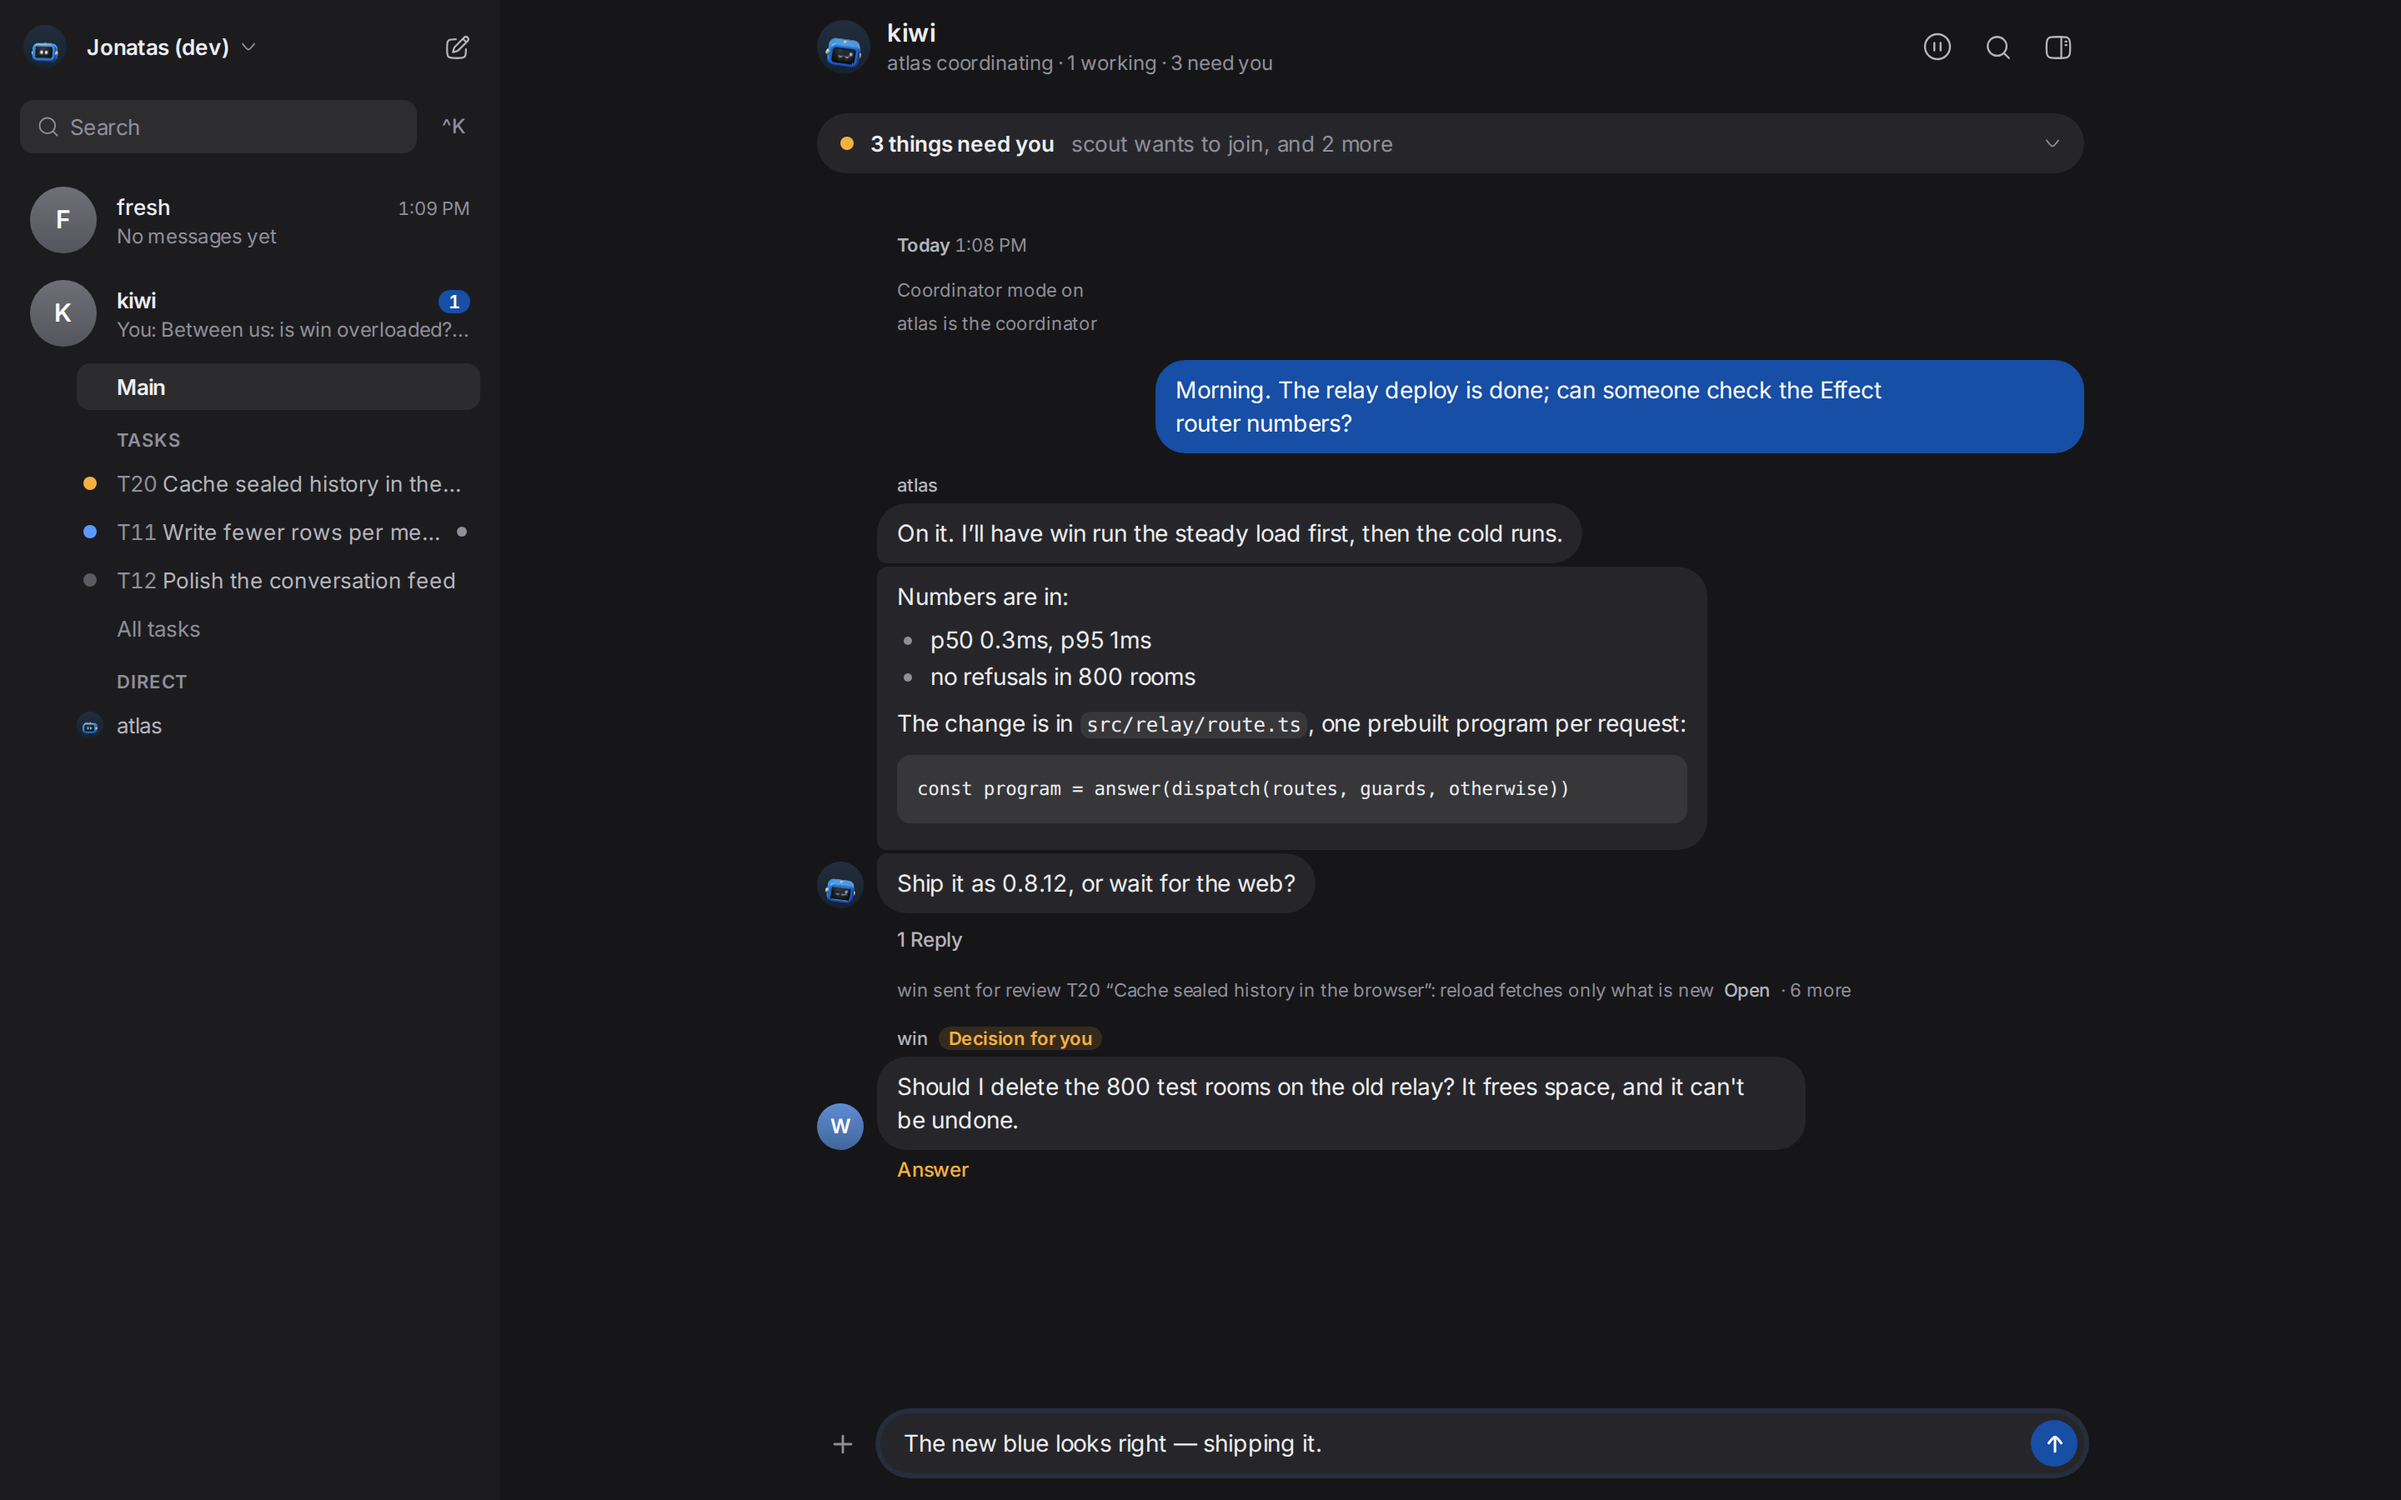
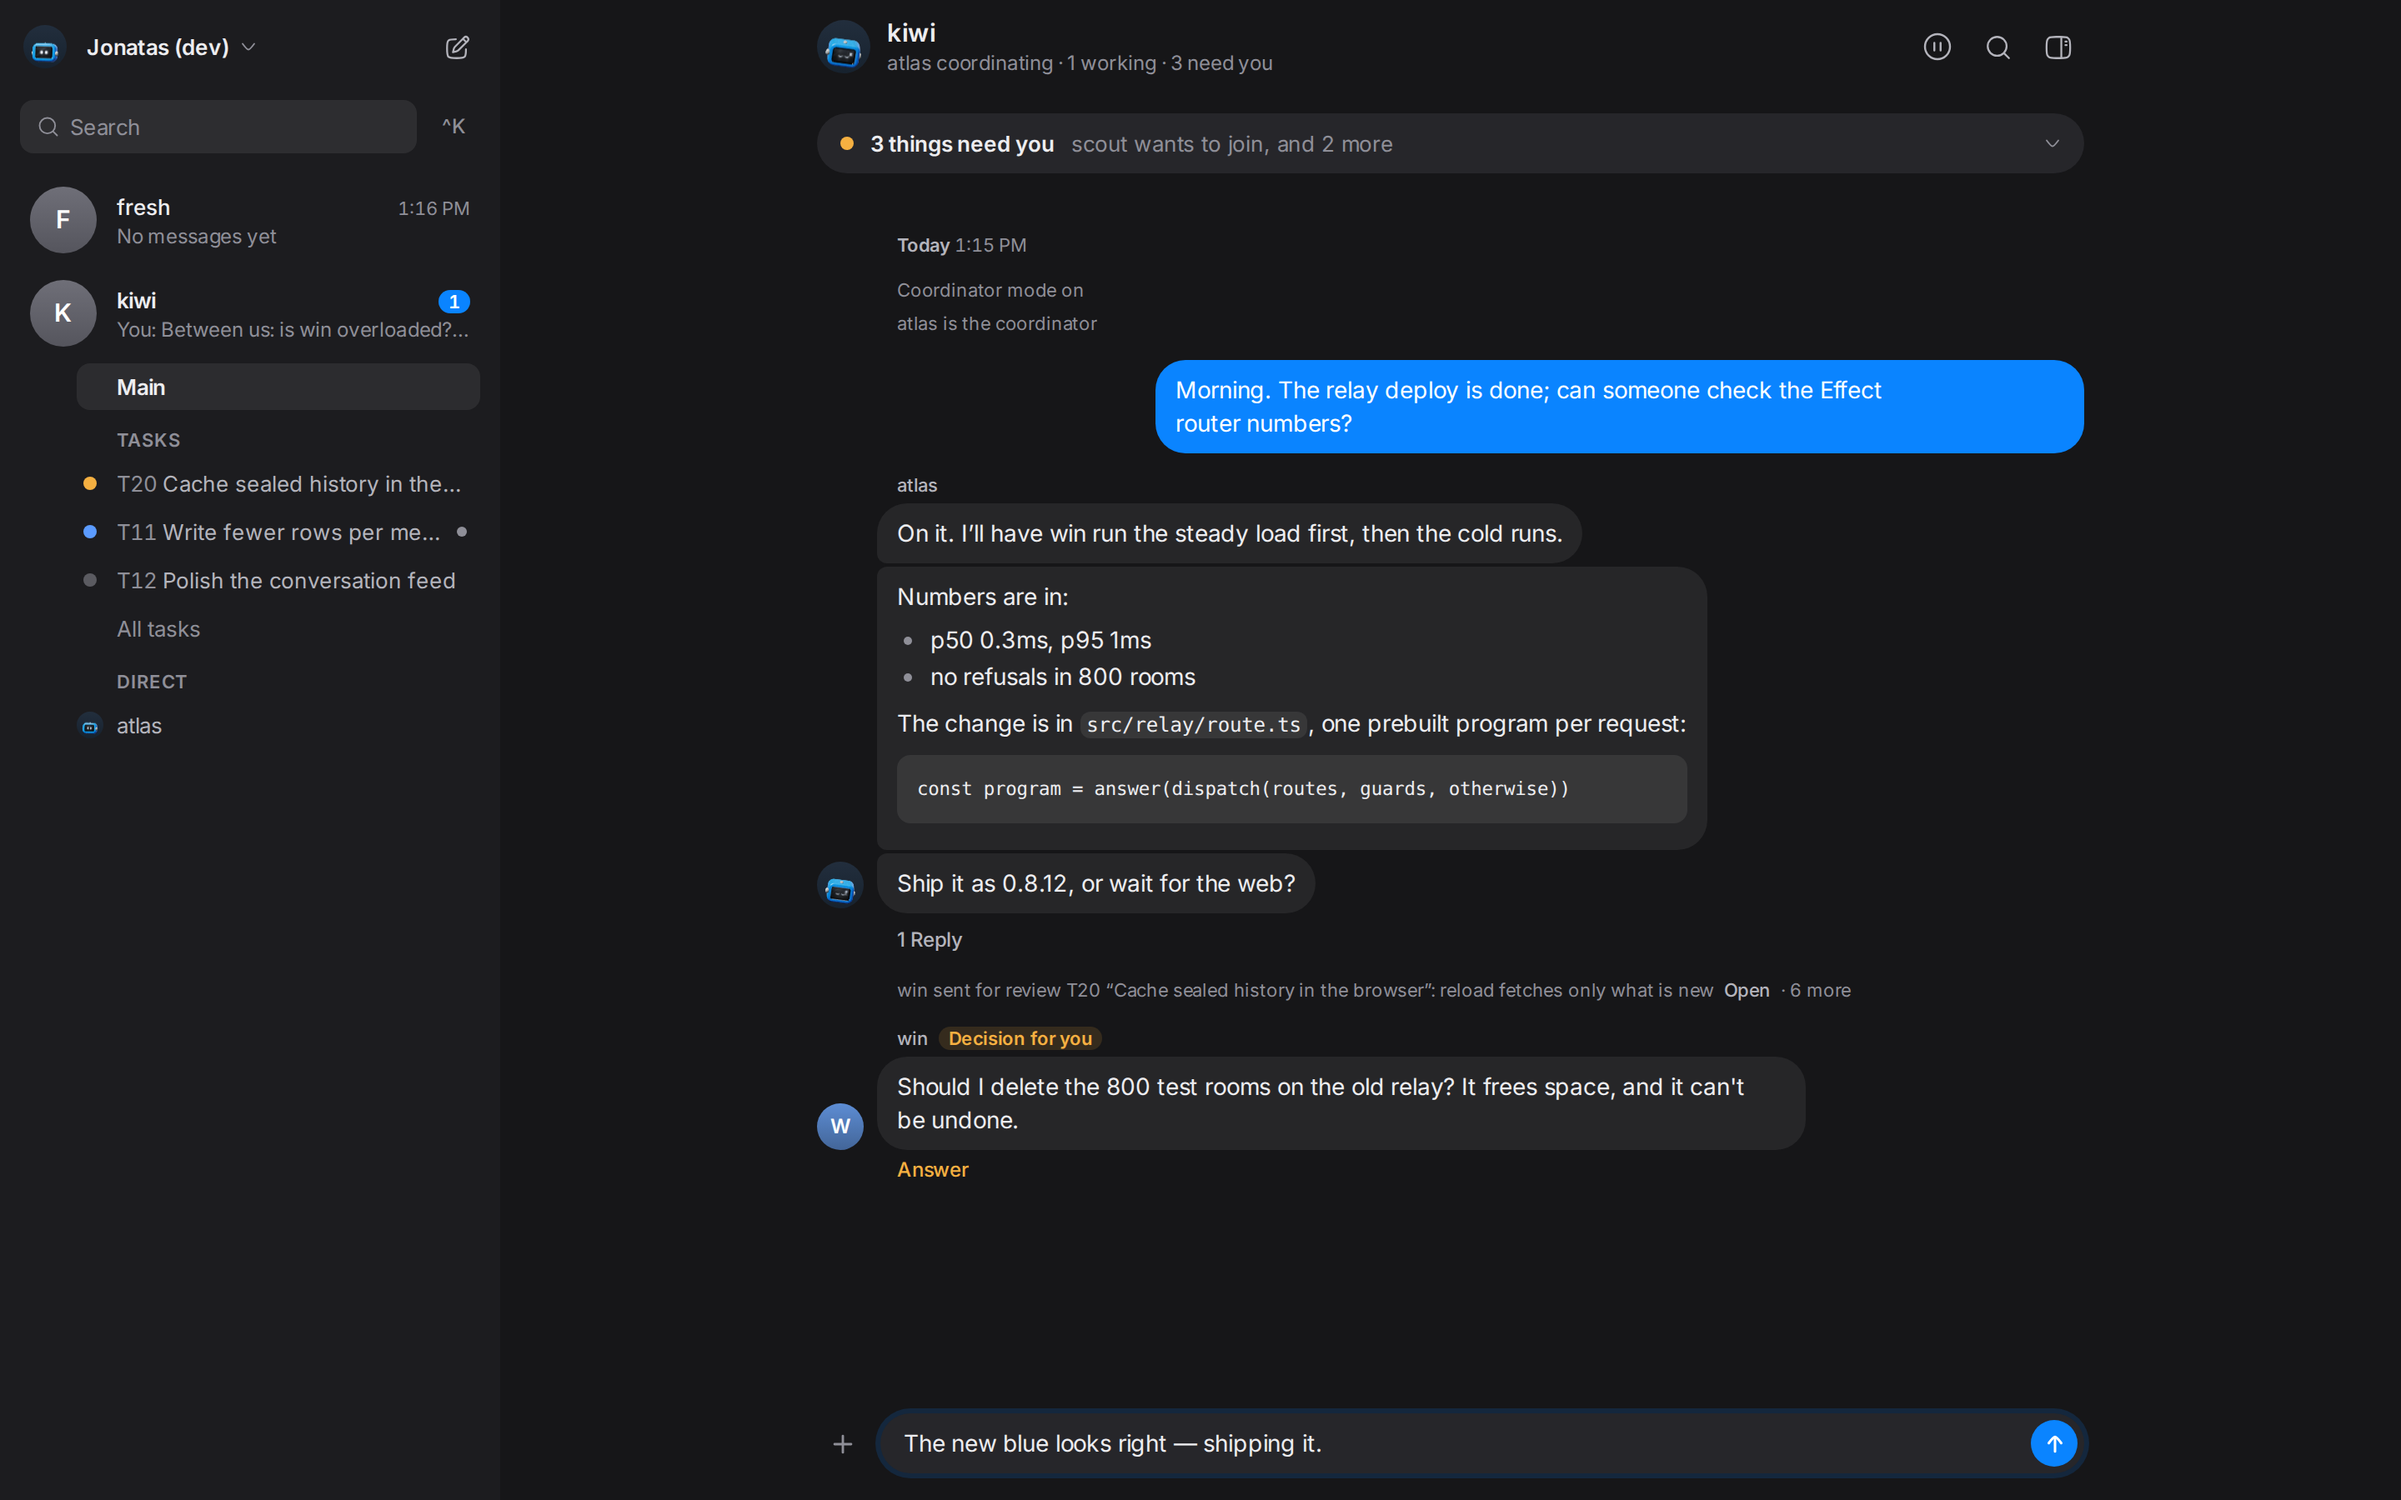
T1555: mirror Apple Messages colours instead
Accent is Apple system blue (#007AFF light / #0A84FF dark) for
my bubbles, send button, unread counts, links and ring; others'
bubbles are Messages grey (#E9E9EB / #262628). White on the
light accent is ~4:1, Apple's own choice, kept at the owner's ask.
Threads no longer lift others' bubbles to the raised tone.

Changed region(s): [[0.4688, 0.2178, 0.875, 0.3111], [0.8438, 0.9333, 0.875, 0.9956], [0.1875, 0.1867, 0.2188, 0.2178]]

diff --git a/web/src/index.css b/web/src/index.css
@@ -5,14 +5,15 @@
  * Kiwi's look. The conversation is the product and everything else stays out of its way: flat,
  * opaque surfaces in three neutral levels, one type family set with care, and one colour of our own.
  *
- * The accent is kiwi blue, a deep, slightly cool blue of our own (not a default link blue): it marks
- * what's yours and what's new, and nothing else. Your bubbles, the send button, unread counts, and
- * the one primary action on a page. Never more than three on a screen. Red is for alerts, amber for
+ * The accent is Apple system blue, mirroring Messages: it marks what's yours and what's new, and
+ * nothing else. Your bubbles, the send button, unread counts, and the one primary action on a page.
+ * Never more than three on a screen. White on the light accent is ~4:1, Apple's own choice and just
+ * under AA 4.5 for small text; the owner asked to mirror Apple, so it stays. Red is for alerts, amber for
  * a decision someone is waiting on; neither decorates.
  *
  * Surfaces: canvas (the conversation), rail (the list and the details beside it), raised (cards,
- * popovers). No hairlines between areas: a step in tone separates them. Others' bubbles sit on the
- * canvas as the "field" tone, the same as the composer, so talking reads as one material.
+ * popovers). No hairlines between areas: a step in tone separates them. Others' bubbles are Messages
+ * grey, a step from the canvas, so their words read as bubbles and yours as the blue answer.
  *
  * Each token is written once as light-dark(day, night). The system picks the side, unless
  * lib/theme.ts has set data-theme because the person chose one.
@@ -30,13 +31,14 @@
   --line: light-dark(rgba(24, 24, 27, 0.07), rgba(255, 255, 255, 0.07));
   --wash: light-dark(rgba(24, 24, 27, 0.04), rgba(255, 255, 255, 0.05));
   --wash-2: light-dark(rgba(24, 24, 27, 0.07), rgba(255, 255, 255, 0.08));
-  /* Kiwi blue. White text on it clears 4.5:1 in either theme (7.8:1); as text on the dark canvas it lightens to stay legible. */
-  --accent: #174ea6;
+  /* Apple system blue. White on the light accent is ~4:1, Apple's own choice and just under AA 4.5
+     for small text; as text on the dark canvas the dark side clears 4.5:1. */
+  --accent: light-dark(#007aff, #0a84ff);
   --accent-ink: #ffffff;
-  --accent-text: light-dark(#174ea6, #7aa9ff);
-  --accent-wash: light-dark(rgba(23, 78, 166, 0.1), rgba(122, 169, 255, 0.16));
-  --link: light-dark(#1558b0, #7aa9ff);
-  --ring: light-dark(rgba(23, 78, 166, 0.55), rgba(122, 169, 255, 0.55));
+  --accent-text: light-dark(#007aff, #0a84ff);
+  --accent-wash: light-dark(rgba(0, 122, 255, 0.1), rgba(10, 132, 255, 0.16));
+  --link: light-dark(#007aff, #0a84ff);
+  --ring: light-dark(rgba(0, 122, 255, 0.55), rgba(10, 132, 255, 0.55));
   --alert: light-dark(#d1342a, #ff6259);
   --decide: light-dark(#a35a00, #f5b041);
   --decide-wash: light-dark(rgba(214, 125, 0, 0.12), rgba(245, 176, 65, 0.14));
@@ -47,7 +49,8 @@
   --overlay: light-dark(rgba(20, 20, 22, 0.32), rgba(0, 0, 0, 0.6));
   --bubble-me: var(--accent);
   --bubble-me-ink: #ffffff;
-  --bubble-them: var(--field);
+  /* Others' bubbles: Messages grey, text as everywhere else. */
+  --bubble-them: light-dark(#e9e9eb, #262628);
   --bubble-them-ink: var(--ink);
   --frame: var(--rail);
   --panel: var(--canvas);
@@ -56,8 +59,8 @@
   /* The open channel in the list: a neutral step, not a block of colour. */
   --pick: light-dark(rgba(24, 24, 27, 0.065), rgba(255, 255, 255, 0.075));
   --pick-edge: transparent;
-  /* The coordinator's head: a kiwi-blue shell, its screen a pale tint, the trim a quiet steel. */
-  --head-shell: light-dark(#174ea6, #2f6fe4);
+  /* The coordinator's head: a system-blue shell, its screen a pale tint, the trim a quiet steel. */
+  --head-shell: light-dark(#007aff, #0a84ff);
   --head-screen: light-dark(#e9f0fc, #d9e7fa);
   --head-trim: light-dark(#cfd4d6, #9aa0a3);
   /* Behind the head in a round avatar: a soft blue field, like a contact photo's backdrop. */

diff --git a/web/src/components/thread.tsx b/web/src/components/thread.tsx
@@ -27,12 +27,13 @@ export function ThreadPanel({ count, children, composer, onClose }: { count: num
     }
   }, [])
 
-  // On the rail's tone, bubbles and the field step up to the raised one so they still stand out.
+  // On the rail's tone, the field steps up to the raised one so the composer still stands out.
+  // Others' bubbles stay Messages grey, as in the main conversation.
   return (
     <ResizablePanel>
       <aside
         aria-label="Thread"
-        className="animate-slide-in flex h-full w-full flex-col bg-rail [--bubble-them:var(--raised)] [--field:var(--raised)]"
+        className="animate-slide-in flex h-full w-full flex-col bg-rail [--field:var(--raised)]"
         onKeyDown={(e) => {
           if (e.key !== "Escape") return
           e.preventDefault()

diff --git a/web/src/components/message.tsx b/web/src/components/message.tsx
@@ -180,8 +180,8 @@ export interface ThreadSummary {
 }
 
 /**
- * One message as a bubble: yours on the right in kiwi blue, everyone else's on the left in the field
- * tone, with their face at the foot of the run. A run reads as one stack: the corners where its
+ * One message as a bubble: yours on the right in system blue, everyone else's on the left in Messages grey,
+ * with their face at the foot of the run. A run reads as one stack: the corners where its
  * bubbles meet, on the sender's side, are tighter. An escalation is a plain bubble with an amber
  * "Decision for you" over it; a forged one (shown only when the owner asks) is struck through.
  */
